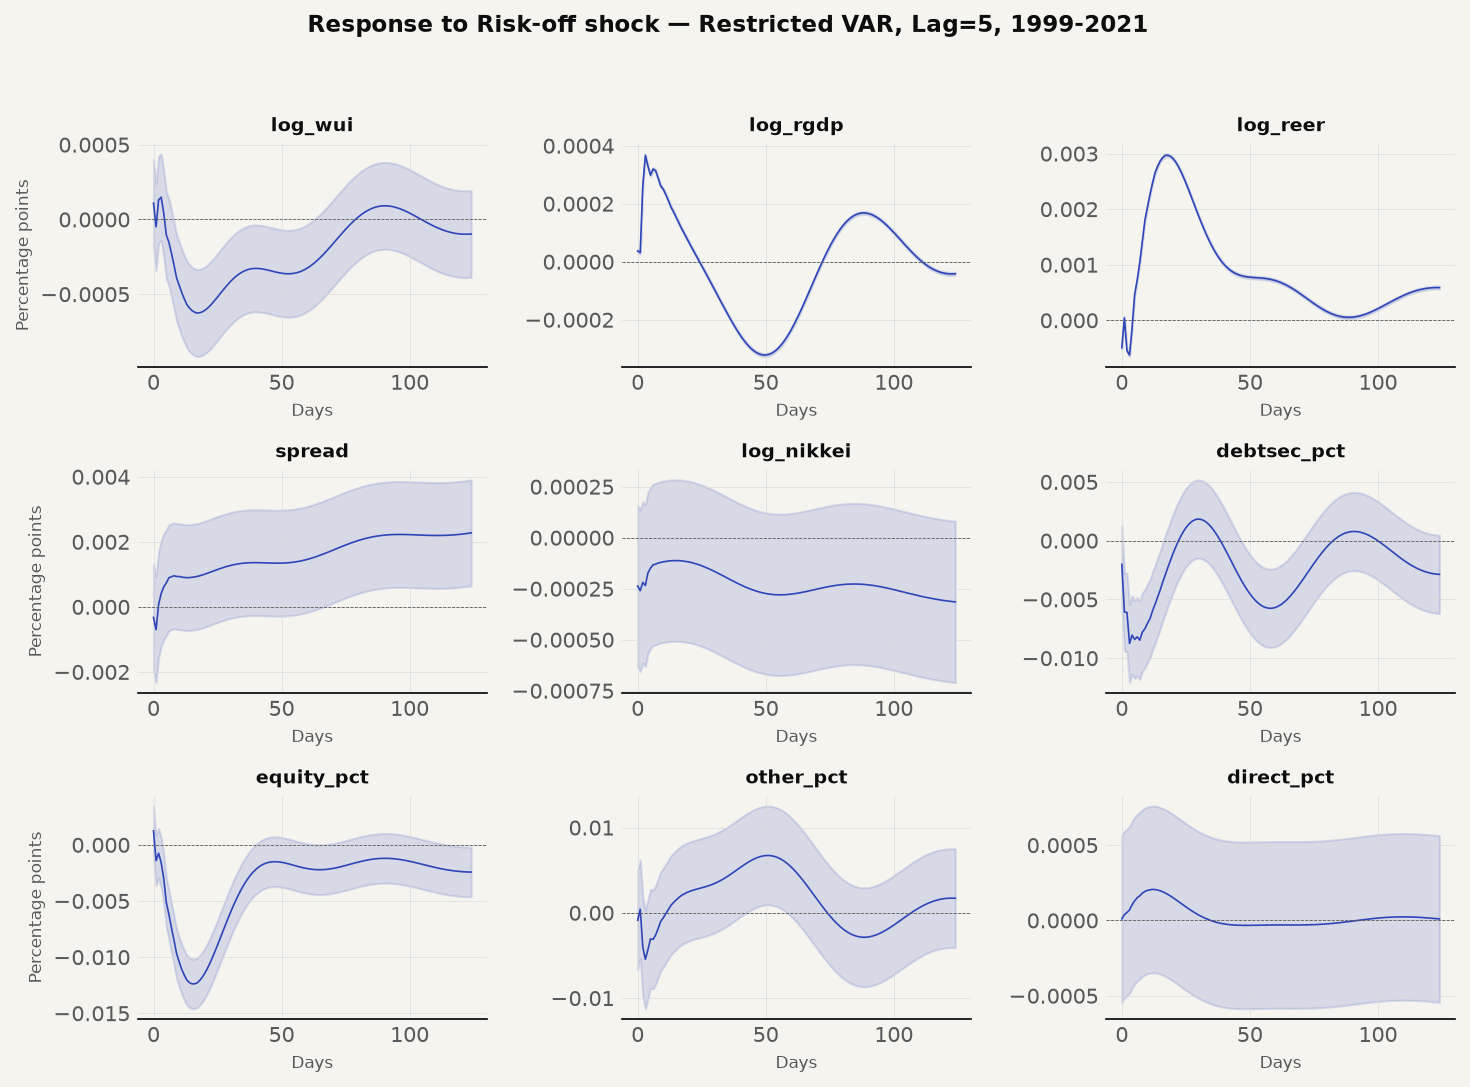
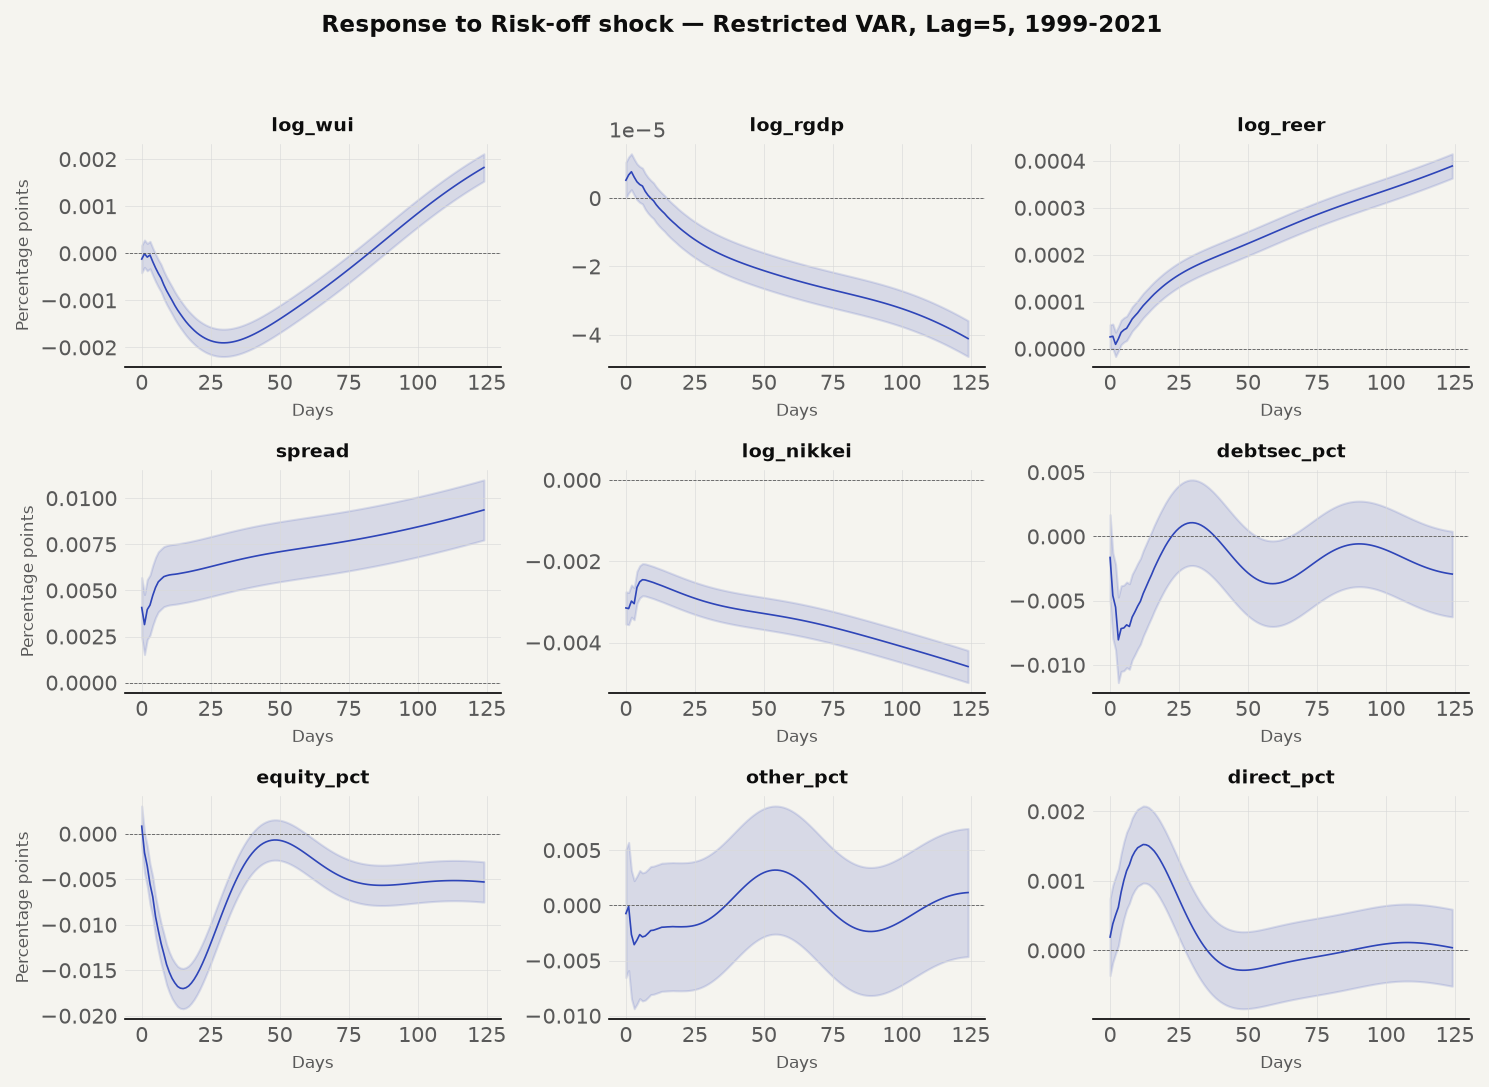
fix(svar): correct IRF computation transpose bug and plot indexing
- Removed spurious .T in _compute_irf that transposed A_j coefficient
  matrices, causing wrong IRF dynamics
- Fixed same .T bug in prediction steps of bootstrap and Monte Carlo
  CI functions
- Corrected plot indexing: irf[h, resp_var, shock_var] not irf[h, 0, var]
- Regenerated all lag test plots with correct signs

diff --git a/scripts/svar_lag_test.py b/scripts/svar_lag_test.py
@@ -96,7 +96,7 @@ def _compute_irf(results, periods=125):
     irfs = np.zeros((periods + 1, K, K)); irfs[0] = np.eye(K)
     for i in range(1, periods + 1):
         for j in range(1, min(i, k_ar) + 1):
-            irfs[i] += irfs[i - j] @ results.coefs[j - 1].T
+            irfs[i] += irfs[i - j] @ results.coefs[j - 1]
     chol = np.linalg.cholesky(results.sigma_u)
     for i in range(periods + 1):
         irfs[i] = irfs[i] @ chol
@@ -157,11 +157,13 @@ for lag in test_lags:
     irf = res.irf(periods=IRF_HORIZON)
     irf_vals = irf.irfs
 
-    # Analytical CIs
+    # Analytical CIs — IRF is [horizon, response_var, shock_var]
+    # Shock is risk_off = variable 0
+    shock_idx = 0
     z = 1.96
     se = np.sqrt(np.diag(res.sigma_u) / res.nobs)
-    lower = irf_vals[:, 0, :] - z * se[np.newaxis, :]
-    upper = irf_vals[:, 0, :] + z * se[np.newaxis, :]
+    lower = irf_vals[:, :, shock_idx] - z * se[np.newaxis, :]
+    upper = irf_vals[:, :, shock_idx] + z * se[np.newaxis, :]
 
     set_style()
     key_indices = [VAR_ORDER.index(v) for v in KEY_VARS]
@@ -173,7 +175,7 @@ for lag in test_lags:
     steps = np.arange(IRF_HORIZON)
     for i, (vname, vidx) in enumerate(zip(KEY_VARS, key_indices)):
         ax = axes_flat[i]
-        resp = irf_vals[:, 0, vidx]
+        resp = irf_vals[:, vidx, shock_idx]
         ax.plot(steps, resp, color=COLORS["paper"], linewidth=0.8)
         ax.fill_between(steps, lower[:, vidx], upper[:, vidx],
                         color=COLORS["paper"], alpha=0.15)

diff --git a/scripts/var_analysis.py b/scripts/var_analysis.py
@@ -208,7 +208,7 @@ def _compute_irf(results, periods=125):
     for i in range(1, periods + 1):
         for j in range(1, min(i, k_ar) + 1):
             lag_coef = results.coefs[j - 1]
-            irfs[i] += irfs[i - j] @ lag_coef.T
+            irfs[i] += irfs[i - j] @ lag_coef
     chol = np.linalg.cholesky(results.sigma_u)
     irfs_orth = np.zeros((periods + 1, K, K))
     for i in range(periods + 1):
@@ -344,7 +344,7 @@ def _delta_irf_ci(irf_obj, B=1000, alpha=0.05):
             for t in range(k_ar, n_totobs):
                 pred = np.zeros(K)
                 for lag in range(1, k_ar + 1):
-                    pred += coefs[lag - 1].T @ boot_data[t - lag]
+                    pred += coefs[lag - 1] @ boot_data[t - lag]
                 exog_idx = t - k_ar
                 if exog_k > 0 and exog_idx < len(exog):
                     pred += exog_coef @ exog[exog_idx]
@@ -426,7 +426,7 @@ def _bootstrap_irf_ci(irf_obj, B=1000, alpha=0.05):
             for t in range(k_ar, n_totobs):
                 pred = np.zeros(K)
                 for lag in range(1, k_ar + 1):
-                    pred += coefs[lag - 1].T @ boot_data[t - lag]
+                    pred += coefs[lag - 1] @ boot_data[t - lag]
                 exog_idx = t - k_ar
                 if exog_k > 0 and exog_idx < len(exog):
                     pred += exog_coef @ exog[exog_idx]
